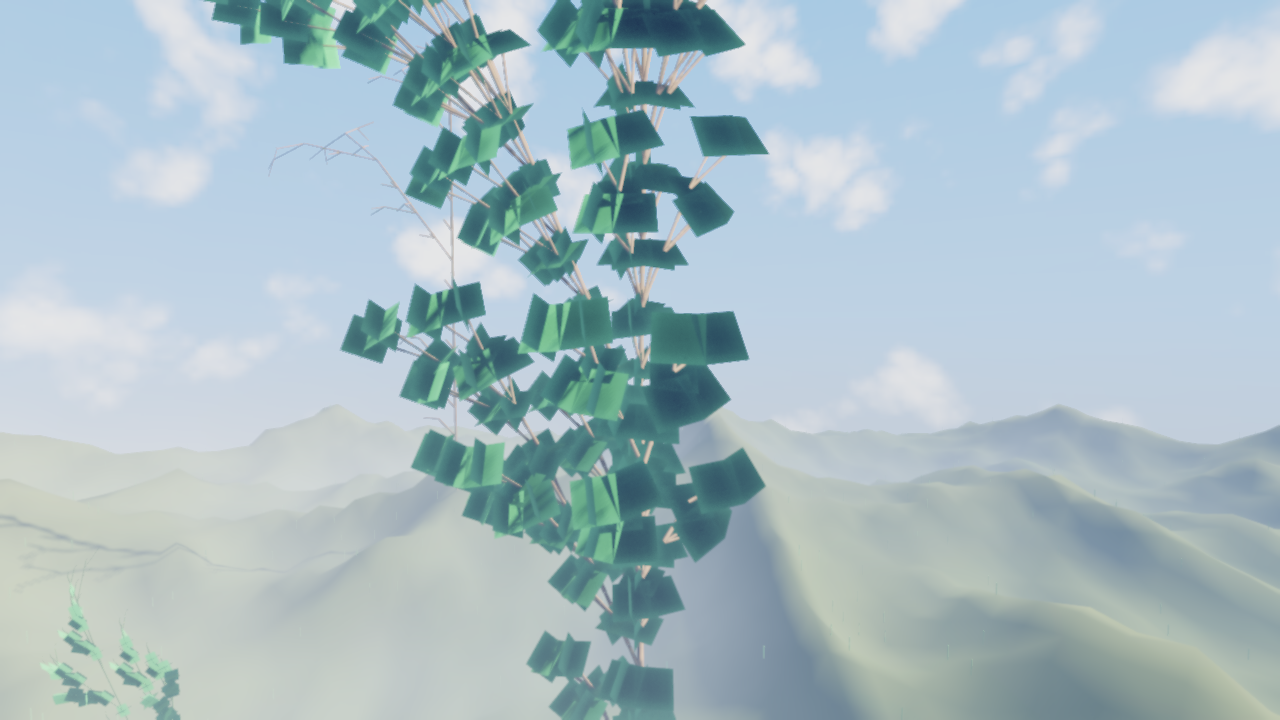
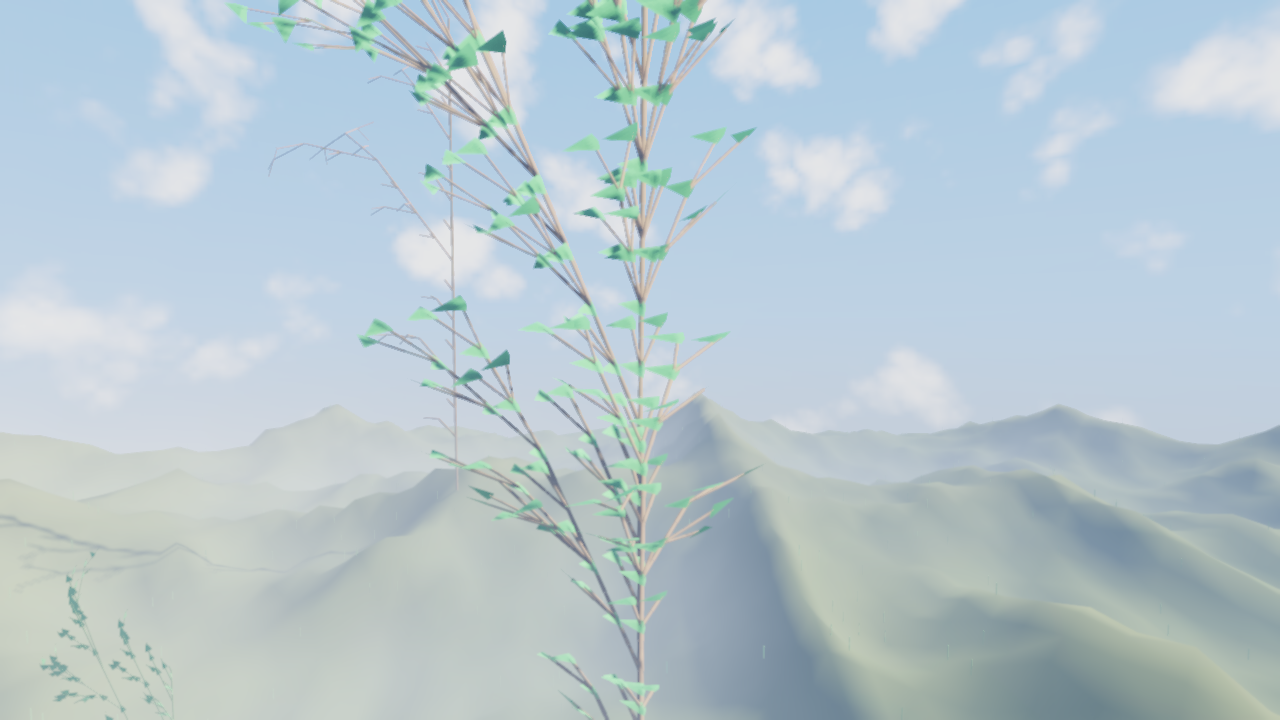
G26 fix: leaf-shaped kite quads instead of square leaves
- addLeaf emits two crossed kites (pointed tip 1.35x leafSize along heading, narrow base)
- regression test testLeafShape (tip extent check), docs/tutorials updated
- refs g26_lsystem_{forest,tree}.png re-rendered + compressed (7.4 MB -> 1.2 MB, pixels identical)

Changed region(s): [[0.1562, 0.0, 0.5938, 1.0], [0.0312, 0.825, 0.1562, 1.0]]

diff --git a/src/procedural/lsystem.cpp b/src/procedural/lsystem.cpp
@@ -2,7 +2,7 @@
 // interpretation (generate) into MeshData. The turtle keeps an orthonormal frame
 // (forward, left, up); + - roll around forward, & ^ pitch around left, \ | yaw around up,
 // [ ] push/pop the frame (branch depth -> radius taper), F draws a tapered cylinder,
-// f moves, L emits two crossed leaf quads.
+// f moves, L emits two crossed leaf-shaped kite quads.
 
 #include <fuhglgraphics/procedural/lsystem.hpp>
 
@@ -74,24 +74,24 @@ void addCylinder(fuhgl::render::MeshData& md, const fuhgl::math::Vec3& p0, const
     }
 }
 
-// two crossed quads (leaf) at the turtle frame
+// two crossed leaf-shaped kites at the turtle frame: pointed tip along `a`, narrow base,
+// width along `b` — reads as a leaf from every angle, not as a square quad
 void addLeaf(fuhgl::render::MeshData& md, const TurtleState& t, float size,
              const fuhgl::math::Vec3& color) {
-    const std::uint32_t base = static_cast<std::uint32_t>(md.vertexCount());
-    auto quad = [&](const fuhgl::math::Vec3& a, const fuhgl::math::Vec3& b) {
-        const fuhgl::math::Vec3 n = fuhgl::math::normalize(fuhgl::math::cross(b - a, t.up));
-        const fuhgl::math::Vec3 c0 = t.pos - a * size - b * size;
-        const fuhgl::math::Vec3 c1 = t.pos + a * size - b * size;
-        const fuhgl::math::Vec3 c2 = t.pos + a * size + b * size;
-        const fuhgl::math::Vec3 c3 = t.pos - a * size + b * size;
-        pushVertex(md, c0, n, color); pushVertex(md, c1, n, color);
-        pushVertex(md, c2, n, color); pushVertex(md, c3, n, color);
+    auto kite = [&](const fuhgl::math::Vec3& a, const fuhgl::math::Vec3& b) {
+        const fuhgl::math::Vec3 n = fuhgl::math::normalize(fuhgl::math::cross(a, b));
+        const fuhgl::math::Vec3 v0 = t.pos - a * (0.25f * size);              // base
+        const fuhgl::math::Vec3 v1 = t.pos + b * (0.55f * size) - a * (0.15f * size); // side +
+        const fuhgl::math::Vec3 v2 = t.pos + a * (1.35f * size);              // tip
+        const fuhgl::math::Vec3 v3 = t.pos - b * (0.55f * size) - a * (0.15f * size); // side -
+        pushVertex(md, v0, n, color); pushVertex(md, v1, n, color);
+        pushVertex(md, v2, n, color); pushVertex(md, v3, n, color);
         const std::uint32_t b0 = static_cast<std::uint32_t>(md.vertexCount()) - 4;
         md.indices.push_back(b0); md.indices.push_back(b0 + 1); md.indices.push_back(b0 + 2);
         md.indices.push_back(b0); md.indices.push_back(b0 + 2); md.indices.push_back(b0 + 3);
     };
-    quad(t.left, t.up);
-    quad(t.fwd, t.up);
+    kite(t.fwd, t.left);
+    kite(t.left, t.fwd);
 }
 
 } // namespace

diff --git a/tests/test_procedural_lsystem.cpp b/tests/test_procedural_lsystem.cpp
@@ -116,10 +116,30 @@ void testPresetsDiffer() {
 
 } // namespace
 
+void testLeafShape() {
+    // a single 'L' at the origin with the default frame must produce leaf-shaped kites
+    // (pointed tip at 1.35*leafSize along the heading), not square quads (extent == leafSize)
+    LSystem s;
+    s.axiom = "L";
+    s.iterations = 0;
+    s.leaves = true;
+    s.leafSize = 0.5f;
+    const fuhgl::render::MeshData md = s.generate({1.f, 1.f, 1.f}, {0.f, 1.f, 0.f});
+    CHECK(md.vertexCount() == 8); // two crossed kites x 4 vertices
+    CHECK(md.indices.size() == 12);
+    float maxExtent = 0.f;
+    for (std::uint32_t i = 0; i < md.vertexCount(); ++i) {
+        const float* v = &md.vertices[i * 11];
+        maxExtent = std::fmax(maxExtent, std::fmax(std::fabs(v[0]), std::fmax(std::fabs(v[1]), std::fabs(v[2]))));
+    }
+    CHECK_NEAR(maxExtent, 1.35f * 0.5f, 1e-4f); // pointed tip; a square quad would give 0.5
+}
+
 void runProceduralLsystemTests() {
     testDerive();
     testPresetBrackets();
     testGenerate();
     testPresetsSpread3D();
     testPresetsDiffer();
+    testLeafShape();
 }

diff --git a/include/fuhglgraphics/procedural/lsystem.hpp b/include/fuhglgraphics/procedural/lsystem.hpp
@@ -17,7 +17,7 @@ namespace fuhglgraphics::procedural {
 /// @brief One L-system: axiom, production rules, iterations + turtle parameters.
 /// Turtle symbols: F = draw forward (cylinder), f = move forward, + - = roll around the
 /// heading, & ^ = pitch, \\ | = yaw, [ = push frame (branch, radius tapers), ] = pop,
-/// L = leaf quad pair at the current frame. The turtle starts with heading +Y, so roll
+/// L = two crossed leaf-shaped kite quads (pointed tip forward) at the current frame. The turtle starts with heading +Y, so roll
 /// (+ -) alone never changes the drawing direction — combine it with pitch (& ^) or yaw
 /// (\\ |) to get real 3D branches (see the presets below).
 struct LSystem {

diff --git a/docs/de/tutorials/g26_lsystem.md b/docs/de/tutorials/g26_lsystem.md
@@ -5,7 +5,7 @@
 **Ziel:** Pflanzen per regelbasiertem String-Rewriting als Mesh wachsen lassen — L-Systeme
 (`procedural::LSystem` in `procedural/lsystem.hpp`). `derive()` ersetzt das Axiom `iterations`
 mal mit den Produktionsregeln; `generate()` interpretiert den String mit einer 3D-Turtle und
-erzeugt ein `fuhgl::render::MeshData` (verjüngte Zylinder für Äste, gekreuzte Blatt-Quads).
+erzeugt ein `fuhgl::render::MeshData` (verjüngte Zylinder für Äste, gekreuzte blattförmige Kites).
 
 ## Anwendung
 
@@ -18,7 +18,7 @@ fuhglgraphics::procedural::LSystem tree = fuhglgraphics::procedural::LSystem::ma
 // oder individuell: Axiom + Regeln + Turtle-Parameter
 fuhglgraphics::procedural::LSystem custom;
 custom.axiom = "F";
-custom.rules = {{'F', "FF+[+&F-FL]-[-&F+FL]"}};  // L = Blatt-Quad an der Spitze
+custom.rules = {{'F', "FF+[+&F-FL]-[-&F+FL]"}};  // L = blattförmiger Kite an der Spitze
 custom.iterations = 4;
 custom.angleDeg = 22.5f;   // Drehwinkel für + - & ^ \ |
 custom.step = 0.9f;        // Segmentlänge von F/f
@@ -41,7 +41,7 @@ n.attach<scene::MeshComponent>().addMesh(&mesh);
 
 Turtle-Symbole: `F` vorwärts zeichnen (Zylinder, Radius verjüngt sich mit `[`-Tiefe), `f` bewegen,
 `+`/`-` rollen um die Richtung, `&`/`^` nicken, `\`/`|` gieren, `[`/`]` Frame pushen/poppen
-(neuer Ast), `L` zwei gekreuzte Blatt-Quads. Unbekannte Symbole werden ignoriert.
+(neuer Ast), `L` zwei gekreuzte blattförmige Kites (spitze Form, nicht quadratisch). Unbekannte Symbole werden ignoriert.
 
 > Die Turtle startet mit Richtung +Y (oben), und reines Rollen (`+`/`-`) ändert die
 > Zeichenrichtung nie — eine Regel nur mit `+`/`-` zeichnet jedes Segment senkrecht nach oben
@@ -66,7 +66,7 @@ Wald-Übersicht:
 
 ![G26 L-Systeme: Wald](../../images/g26_lsystem_forest.png)
 
-Baum-Nahaufnahme (Stamm, Äste, Blatt-Quads):
+Baum-Nahaufnahme (Stamm, Äste, blattförmige Kites):
 
 ![G26 L-Systeme: Baum](../../images/g26_lsystem_tree.png)
 

diff --git a/docs/en/tutorials/g26_lsystem.md b/docs/en/tutorials/g26_lsystem.md
@@ -18,7 +18,7 @@ fuhglgraphics::procedural::LSystem tree = fuhglgraphics::procedural::LSystem::ma
 // or custom: axiom + rules + turtle parameters
 fuhglgraphics::procedural::LSystem custom;
 custom.axiom = "F";
-custom.rules = {{'F', "FF+[+&F-FL]-[-&F+FL]"}};  // L = leaf quad at the tip
+custom.rules = {{'F', "FF+[+&F-FL]-[-&F+FL]"}};  // L = leaf-shaped kite at the tip
 custom.iterations = 4;
 custom.angleDeg = 22.5f;   // + - & ^ \ | turn angle
 custom.step = 0.9f;        // F/f segment length
@@ -41,7 +41,7 @@ n.attach<scene::MeshComponent>().addMesh(&mesh);
 
 Turtle symbols: `F` draw forward (cylinder, radius tapers with `[` depth), `f` move,
 `+`/`-` roll around the heading, `&`/`^` pitch, `\`/`|` yaw, `[`/`]` push/pop the frame
-(new branch), `L` two crossed leaf quads. Unknown symbols are ignored.
+(new branch), `L` two crossed leaf-shaped kite quads (pointed tip, not square). Unknown symbols are ignored.
 
 > The turtle starts with heading +Y (up), and roll (`+`/`-`) alone never changes the drawing
 > direction — a rule with only `+`/`-` draws every segment straight up and looks like a
@@ -65,7 +65,7 @@ Forest overview:
 
 ![G26 L-systems: forest](../../images/g26_lsystem_forest.png)
 
-Tree closeup (trunk, branches, leaf quads):
+Tree closeup (trunk, branches, leaf-shaped kites):
 
 ![G26 L-systems: tree](../../images/g26_lsystem_tree.png)
 

diff --git a/docs/USER_GUIDE.md b/docs/USER_GUIDE.md
@@ -279,8 +279,8 @@ The technical part is in [DEVELOPMENT.md](DEVELOPMENT.md); the agreed requiremen
   [crystal blob](images/g25_marching_cubes_blob.png).
 - **L-systems (G26).** `procedural::LSystem` (`procedural/lsystem.hpp`): set axiom + rules +
   iterations, call `derive()` (string rewriting) and `generate(trunkColor, leafColor)` —
-  a 3D turtle (F/f, +−&^\|, [ ] with radius taper, L leaf quads) emits `MeshData`
-  (tapered cylinders + leaf quads). Presets: `LSystem::makeTree(variant)`, `makeFern()`,
+  a 3D turtle (F/f, +−&^\|, [ ] with radius taper, L leaf kites) emits `MeshData`
+  (tapered cylinders + leaf-shaped kite quads). Presets: `LSystem::makeTree(variant)`, `makeFern()`,
   `makeBush()`. Upload via `mesh.setMeshData(...)` + `MeshComponent`, place with
   `heightAt()` / instancing. Quick start: [G26 tutorial](en/tutorials/g26_lsystem.md),
   demo `examples/lsystem_screenshot`, screenshots: [forest](images/g26_lsystem_forest.png),

diff --git a/CHANGELOG.md b/CHANGELOG.md
@@ -9,6 +9,9 @@ All notable changes to FuhGlGraphics are documented here. The format follows
 
 ### Fixed
 
+- **G26 L-system leaves** were square quads; `L` now emits two crossed leaf-shaped kite quads
+  (pointed tip at 1.35x leafSize along the heading, narrow base) — regression test
+  `testLeafShape` asserts the tip extent. Refs `docs/images/g26_lsystem_*.png` re-rendered.
 - **G26 L-system presets** drew vertical sticks instead of trees: the rules used only `+`/`-`,
   which in the 3D turtle is a roll around the heading and never changes the drawing direction
   (heading starts at +Y). Presets (`makeTree` variants 0-2, `makeFern`, `makeBush`) now combine
